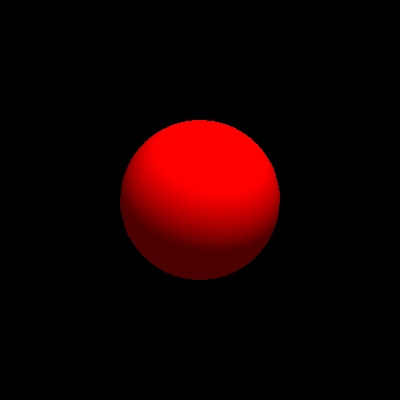
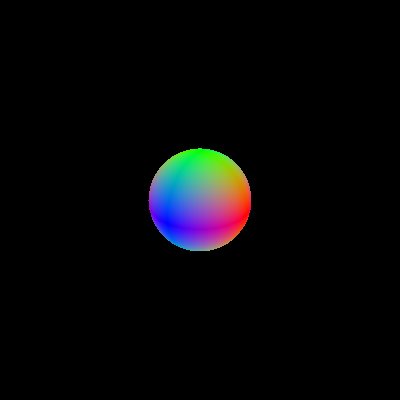
update images

Changed region(s): [[0.3, 0.3, 0.72, 0.72]]

diff --git a/test/test.js b/test/test.js
@@ -45,12 +45,12 @@ function createBuffers (gl, program) {
   var attributes = loader.getAttributes(gl, program);
 
   var geometry = Tetrahedron();
-  //var geometry = Octahedron();
+  var geometry = Octahedron();
   //var geometry = Dodecahedron(); // :(
-  //var geometry = Icosahedron();
-  //var geometry = Torus();
-  //var geometry = Sphere();
-  //var geometry = Cube();
+  var geometry = Icosahedron();
+  var geometry = Torus();
+  var geometry = Sphere();
+  var geometry = Cube();
   console.log(geometry.vertices.length, geometry.indices.length, geometry.normals.length);
   initBuffer(gl, gl.ARRAY_BUFFER, new Float32Array(geometry.vertices), 3, attributes.aPosition);
   initBuffer(gl, gl.ARRAY_BUFFER, new Float32Array(geometry.normals), 3, attributes.aNormal);
@@ -76,7 +76,7 @@ function createModelMatrix () {
   return modelMatrix;
 };
 function createViewMatrix () {
-  var eye = vec3.fromValues(0, 0, 3);
+  var eye = vec3.fromValues(2, 2, 3);
   var center = vec3.fromValues(0, 0, 0);
   var up = vec3.fromValues(0, 1, 0);
   var viewMatrix = mat4.create();

diff --git a/README.MD b/README.MD
@@ -3,26 +3,37 @@
 
 Constructors return objects with the keys `vertices`, `indices`, and `normals`.  Working on adding `uvs`.  Indices should be put into at least a `Uint16Array` since the number of unique vertices will be greater than 255 (`Uint8Array`) for most geometries.  The goal is to be able to have a bunch of 3D Geometries without needing all of Three.js.
 
+All vertice lists use hard shading for polyhedra (so each vertex is duplicated for each face).
+Except octahedra and icosahedra, which is a bug.
+
+![Hard vs Soft Shading](images/hard_vs_soft_shading.png)
+
 ##Examples
+###Tetrahedron
+4 sides
+
+![Tetrahedron](images/tetrahedron.png)
 
 ###Cube
+6 sides
+
 ![Cube](images/cube.png)
+
+###Octahedron
+8 sides
+
+![Octahedron](images/octahedron.png)
+
+###Icosahedron
+20 sides
+
+![Icosahedron](images/icosahedron.png)
 
 ###Sphere
 ![Sphere](images/sphere.png)
 
 ###Torus
 ![Torus](images/torus.png)
-
-###Tetrahedron
-4 sides
-
-![Tetrahedron](images/tetrahedron.png)
-
-###Octahedron
-8 sides
-
-![Octahedron](images/octahedron.png)
 
 ##License
 "THE BEER-WARE LICENSE" (Revision 42):
